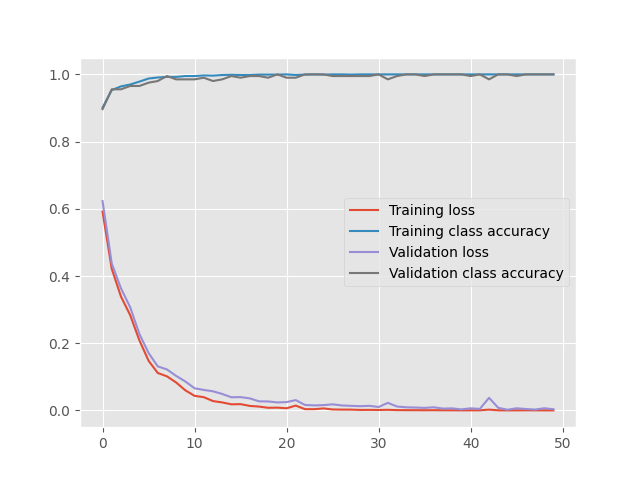
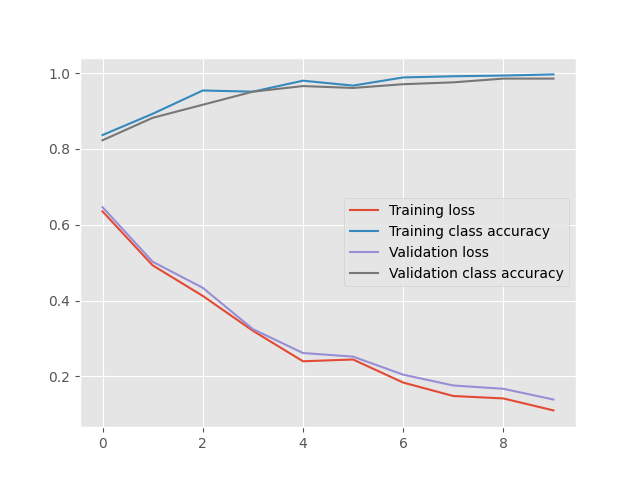
fix: correction of small issues

diff --git a/src/timer/timer.py b/src/timer/timer.py
@@ -1,0 +1,113 @@
+from loguru import logger
+from time import time, perf_counter
+from typing import Optional, Any
+
+
+class Timer:
+    """
+    A robust context manager for timing code execution.
+
+    Features:
+    - Uses high-precision perf_counter() for accurate timing
+    - Handles exceptions gracefully
+    - Provides multiple output formats
+    - Optional custom naming and logging levels
+    - Returns elapsed time for programmatic use
+    """
+
+    def __init__(
+        self,
+        name: Optional[str] = None,
+        log_level: str = "success",
+        use_perf_counter: bool = True,
+        silent: bool = False,
+    ) -> None:
+        """
+        Initialize the Timer.
+
+        Args:
+            name: Optional name for the timer (displayed in logs)
+            log_level: Logging level ('trace', 'debug', 'info', 'warning', 'error', 'success')
+            use_perf_counter: Use high-precision perf_counter vs time()
+            silent: If True, suppress automatic logging
+        """
+        self.name = name
+        self.log_level = log_level.lower()
+        self.timer_func = perf_counter if use_perf_counter else time
+        self.silent = silent
+        self.start_time: Optional[float] = None
+        self.end_time: Optional[float] = None
+        self.elapsed: Optional[float] = None
+
+    def _log(self, message: str, level: str) -> None:
+        """Log message at specified level."""
+        log_func = getattr(logger, level, logger.info)
+        log_func(message)
+
+    def __enter__(self) -> "Timer":
+        """Start timing and return self for access to elapsed time."""
+        self.start_time = self.timer_func()
+        if not self.silent:
+            start_msg = "⏱ Starting timer"
+            if self.name:
+                start_msg += f" <{self.name}>"
+            self._log(start_msg, "debug")
+        return self
+
+    def __exit__(
+        self,
+        exception_type: Optional[type],
+        exception_value: Optional[Exception],
+        exception_traceback: Optional[Any],
+    ) -> None:
+        """Stop timing and log results."""
+        self.end_time = self.timer_func()
+
+        if self.start_time is None:
+            logger.error("Timer was not properly started")
+            return
+
+        if self.silent:
+            return
+
+        self.elapsed = self.end_time - self.start_time
+
+        # Format time with appropriate precision
+        time_str = self._format_time(self.elapsed)
+
+        # Create the log message
+        msg = "⏱ Computation time"
+        if self.name:
+            msg += f" for '{self.name}'"
+        msg += f": {time_str}"
+
+        # Add exception info if an error occurred
+        if exception_type is not None:
+            msg += f" (completed with {exception_type.__name__}: {exception_value})"
+            log_level = "warning"
+        else:
+            log_level = self.log_level
+
+        self._log(msg, log_level)
+
+    def _format_time(self, seconds: float) -> str:
+        """Format time duration in human-readable format."""
+        if seconds < 1e-6:
+            return f"{seconds * 1e9:.2f} ns"
+        elif seconds < 1e-3:
+            return f"{seconds * 1e6:.2f} μs"
+        elif seconds < 1:
+            return f"{seconds * 1e3:.2f} ms"
+        elif seconds < 60:
+            return f"{seconds:.3f} s"
+        elif seconds < 3600:
+            minutes = int(seconds // 60)
+            remaining_seconds = seconds % 60
+            return f"{minutes}m {remaining_seconds:.1f}s"
+        else:
+            hours = int(seconds // 3600)
+            remaining_minutes = int((seconds % 3600) // 60)
+            remaining_seconds = seconds % 60
+            return f"{hours}h {remaining_minutes}m {remaining_seconds:.1f}s"
+
+

diff --git a/train.py b/train.py
@@ -8,11 +8,11 @@ from torch.optim import Adam
 import matplotlib.pyplot as plt
 from collections import defaultdict
 import random
-import time
 import os
 from loguru import logger
 from src.arguments.handle_args import setup_args
 from typing import Any
+from src.timer.timer import Timer
 
 from PyQt5.QtCore import QLibraryInfo
 
@@ -238,10 +238,9 @@ def main():
     object_detector.eval()
     torch.save(object_detector, config.LAST_MODEL_PATH)
 
-    start_time = time.time()
-    train(object_detector=object_detector, optimizer=optimizer, train_loader=train_loader, val_loader=val_loader, plots=plots, store_model=True)
-    end_time = time.time()
-    logger.info(f"**** total time to train the model: {end_time - start_time:.2f}s")
+    with Timer():
+        train(object_detector=object_detector, optimizer=optimizer, train_loader=train_loader, val_loader=val_loader, plots=plots, store_model=True)
+
 
     display_graphs(plots, args.save_plots)
 

diff --git a/src/config.py b/src/config.py
@@ -36,19 +36,19 @@ if DEVICE == "mps":
     # Réduire le nombre de workers pour éviter les conflits de mémoire sur MPS
     NB_WORKERS = 0  # 0 pour MPS évite les problèmes de multiprocessing
     # Réduire la batch size pour économiser la mémoire GPU
-    BATCH_SIZE = 16  # Réduit de 32 à 16 pour MPS
+    BATCH_SIZE = 32  # Réduit de 32 à 16 pour MPS
 else:
     NB_WORKERS = os.cpu_count() if DEVICE in ["cuda", "mps"] else 2
     if NB_WORKERS is None:
         NB_WORKERS = 2
     BATCH_SIZE = 32
 
-logger.debug("**** using", DEVICE.upper(), "and", NB_WORKERS, "workers")
+logger.debug(f"**** using {DEVICE.upper()} and {NB_WORKERS} workers")
 
 # initialize our initial learning rate, number of epochs to train
 # for, and the batch size
 INIT_LR = 1e-4
-NUM_EPOCHS = 50
+NUM_EPOCHS = 10
 
 # specify the loss weights
 LABELW = 1.0
